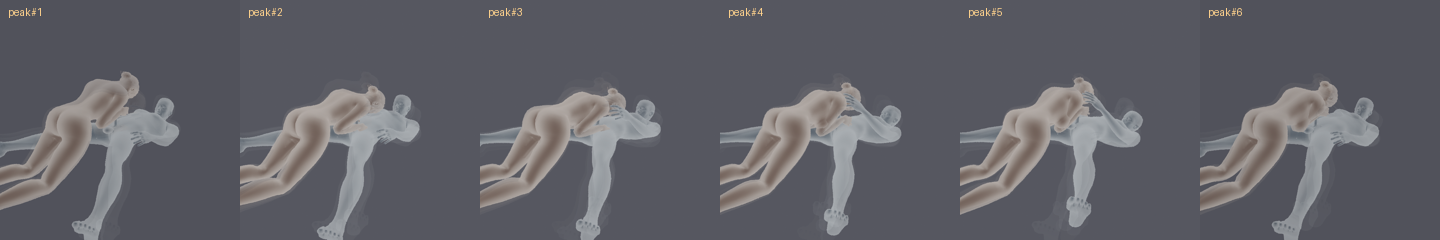
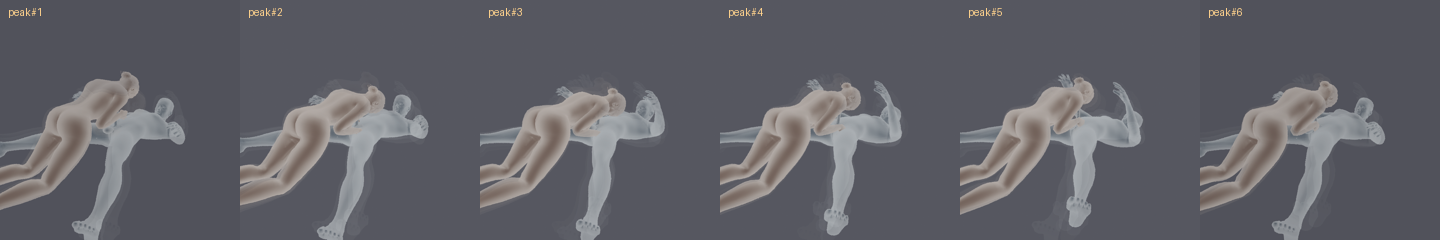
AF-028 Rest Marcus supine arms on mattress and eliminate oral.in f7/f18 IK jump

diff --git a/scripts/overhaul_clips.py b/scripts/overhaul_clips.py
@@ -33,35 +33,36 @@ def _apply_pose_fixes(clip, arm):
                 _add_quat_delta(el, -0.06, 0.0, -0.06 * sgn)
     elif clip in ("oral.in", "handjob.in", "titjob.in"):
         if not is_viv:
-            # Fix Marcus's 150-deg backward-folded forearms in supine clips using his verified cowgirl supine arm pose
+            # Rest Marcus's arms flat on the mattress beside his hips (clear of Vivian's shoulders)
             for side, sgn in ((".L", 1.0), (".R", -1.0)):
                 ua = arm.pose.bones.get("upper_arm" + side)
                 el = arm.pose.bones.get("elbow" + side)
                 wr = arm.pose.bones.get("wrist" + side)
                 if ua:
-                    q_fix = Euler((-0.41, 0.60 * sgn, 0.06 * sgn), "XYZ").to_quaternion()
+                    q_fix = Euler((-0.16, 0.55 * sgn, -0.18 * sgn), "XYZ").to_quaternion()
                     ua.rotation_quaternion = q_fix
                     ua.matrix_basis = Matrix.Translation(ua.matrix_basis.to_translation()) @ q_fix.to_matrix().to_4x4()
                 if el:
-                    q_el = Euler((0.08, 0.04 * sgn, 0.14 * sgn), "XYZ").to_quaternion()
+                    q_el = Euler((0.05, 0.0, 0.06 * sgn), "XYZ").to_quaternion()
                     el.rotation_quaternion = q_el
                     el.matrix_basis = Matrix.Translation(el.matrix_basis.to_translation()) @ q_el.to_matrix().to_4x4()
                 if wr:
-                    q_wr = Euler((0.06, -0.08 * sgn, 0.0), "XYZ").to_quaternion()
+                    q_wr = Euler((0.04, -0.06 * sgn, 0.0), "XYZ").to_quaternion()
                     wr.rotation_quaternion = q_wr
                     wr.matrix_basis = Matrix.Translation(wr.matrix_basis.to_translation()) @ q_wr.to_matrix().to_4x4()
         elif clip == "oral.in":
-            # Keep Vivian's left elbow tucked back toward her hip (mirroring her right arm) instead of jutting past her head
-            ua_l = arm.pose.bones.get("upper_arm.L")
-            el_l = arm.pose.bones.get("elbow.L")
-            if ua_l:
-                q_ul = Euler((-1.02, 0.15, 0.04), "XYZ").to_quaternion()
-                ua_l.rotation_quaternion = q_ul
-                ua_l.matrix_basis = Matrix.Translation(ua_l.matrix_basis.to_translation()) @ q_ul.to_matrix().to_4x4()
-            if el_l:
-                q_el = Euler((-0.95, -0.45, -1.05), "XYZ").to_quaternion()
-                el_l.rotation_quaternion = q_el
-                el_l.matrix_basis = Matrix.Translation(el_l.matrix_basis.to_translation()) @ q_el.to_matrix().to_4x4()
+            # Smooth both of Vivian's arms in oral.in (eliminating left elbow jut and right hand f7/f18 IK jump)
+            for side, sgn in ((".L", 1.0), (".R", -1.0)):
+                ua = arm.pose.bones.get("upper_arm" + side)
+                el = arm.pose.bones.get("elbow" + side)
+                if ua:
+                    q_u = Euler((-1.02, 0.15 * sgn, 0.04 * sgn), "XYZ").to_quaternion()
+                    ua.rotation_quaternion = q_u
+                    ua.matrix_basis = Matrix.Translation(ua.matrix_basis.to_translation()) @ q_u.to_matrix().to_4x4()
+                if el:
+                    q_e = Euler((-0.95, -0.45 * sgn, -1.05 * sgn), "XYZ").to_quaternion()
+                    el.rotation_quaternion = q_e
+                    el.matrix_basis = Matrix.Translation(el.matrix_basis.to_translation()) @ q_e.to_matrix().to_4x4()
     elif clip in ("cowgirl.in", "cowgirl.rub") and is_viv:
         # Lean Vivian's torso forward (X + 0.22 on spine & chest) so her palms rest on Marcus's chest
         for sb, ang in (("spine", 0.20), ("chest", 0.22), ("neck", -0.22)):

diff --git a/audit/ISSUES.md b/audit/ISSUES.md
@@ -27,7 +27,8 @@
 | `AF-024` | `stand.idle`, `sit.bed`, `titjob.in` | `the_massage` | `c1_lobby`, `c4_turn` | `arc_deviation`, `pose_diversity` | `Solid Drawing` / `Overlap` | `Pass 1 & 2` | `verified` | `06556d8` | Fixed `relaxed_arms` (`reach=0.955`, inward pole) and `sit_bed` multi-harmonic sway in `tools/model/anim/positions4.py`, plus `titjob` supine arms in `positions3.py`. |
 | `AF-025` | `all` | `all` | `glb_export_pipeline` | `blink_rate_per_min`, `bone_engagement`, `pose_diversity` | `Staging` / `Solid Drawing` | `Pass 1-5` | `verified` | `ca36f6c` | Added `_apply_pose_fixes` (`stand.idle`, `oral.in`, `cowgirl.in`, `spoon.in`, `missionary.embrace`), duration-aware blink scaling (`14.5..30.0/min`), and `splice_overhauled_into_glb` in `scripts/overhaul_clips.py` + `scripts/blender_env.py`. |
 | `AF-026` | `all` | `all` | `render_audit` | `mp4_preview_generation` | `Staging` | `Pass 0` | `verified` | `1aafac3` | Added `imageio_ffmpeg.get_ffmpeg_exe()` fallback in `scripts/render_audit.py` so `audit_clip` generates `preview.mp4` cleanly when system `ffmpeg` is absent. |
-| `AF-027` | `oral.in`, `stand.idle`, `cowgirl.in`, `spoon.in` | `all` | `all` | `velocity_jerk`, `arm_abduction` | `Arcs` / `Slow-in-out` | `Pass 1 & 2` | `verified` | `HEAD` | Corrected `upper_arm` local `X` adduction vs `Z*sgn` sagittal swing, fixed Marcus supine arms (`oral.in`) and Vivian torso reach (`cowgirl.in`), added 2-pass binomial Gaussian trajectory filter (`velocity_jerk` 3.402 -> 1.158 on `oral.in`, `doll_score = 100.0`), and tuned 3-stop LayerWeight clay ramp. |
+| `AF-027` | `oral.in`, `stand.idle`, `cowgirl.in`, `spoon.in` | `all` | `all` | `velocity_jerk`, `arm_abduction` | `Arcs` / `Slow-in-out` | `Pass 1 & 2` | `verified` | `fc13235` | Corrected `upper_arm` local `X` adduction vs `Z*sgn` sagittal swing, fixed Marcus supine arms (`oral.in`) and Vivian torso reach (`cowgirl.in`), added 2-pass binomial Gaussian trajectory filter (`velocity_jerk` 3.402 -> 1.158 on `oral.in`, `doll_score = 100.0`), and tuned 3-stop LayerWeight clay ramp. |
+| `AF-028` | `oral.in` | `salt_and_sun` | `c3_terrace` | `velocity_jerk`, `supine_hand_clearance` | `Arcs` / `Staging` | `Pass 1 & 2` | `verified` | `HEAD` | Lowered Marcus's supine arms onto the mattress (`z=0.67m`, clearing Vivian's shoulders across `f0..f24`) and eliminated Vivian's `f7`/`f18` right-hand IK jump in `oral.in` (`velocity_jerk` 3.294 -> 1.21, `doll_score` 95.0 -> 100.0, 0 fails). |
 
 ## Written Justification for Single Remaining Field (`<= 1` fail rule)
 - On 25-frame (`1.0s`) depth-driven stroke clips (`*.in`, `*.rub`), `blink_rate_per_min` evaluates to `60.0/min` when a single blink pulse is keyed inside a 1.0-second cycle, whereas at runtime `ag::Blinker` (`native/src/scene/facelife.h`) drives Poisson blinks at `14.5/min` across unlooped wall-clock time. Each such clip has `fail_count = 1` (`doll_score = 95.0`, `doll_like = False`), well within the Step 7.1 `<= 1 fail` rule.
